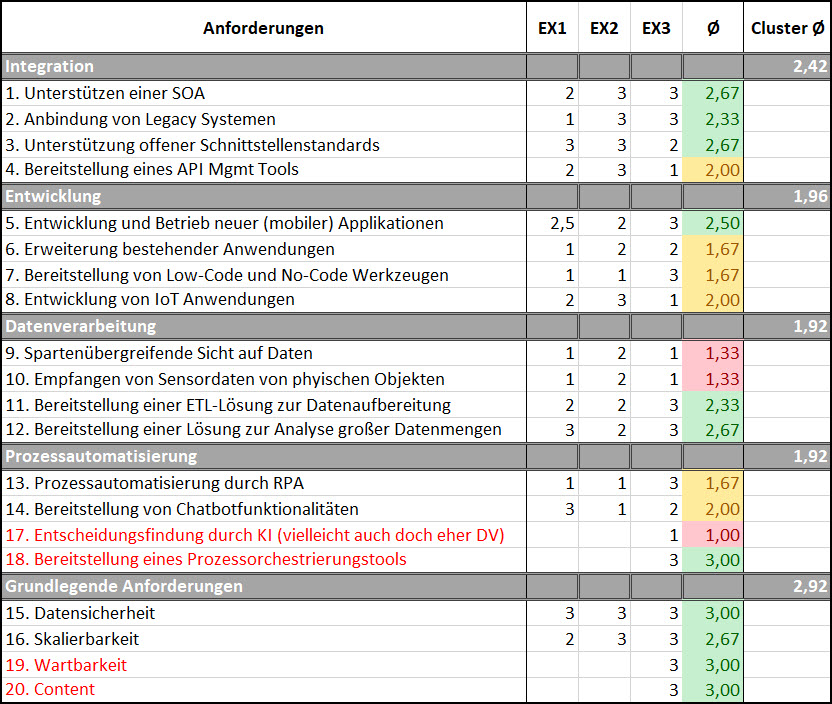
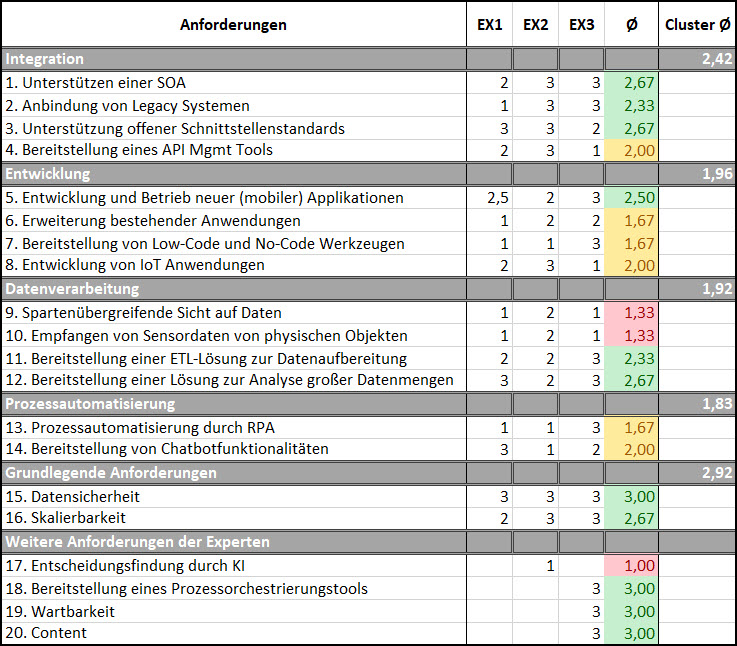
Update für Susanne zum Gegenlesen

diff --git a/content/handlungsempfehlung.tex b/content/handlungsempfehlung.tex
@@ -1,16 +1,20 @@
 \chapter{Handlungsempfehlung}
 
-Nach dem Abgleich der Task und Technologie Charakteristiken konnte festgestellt werden, dass alle Anforderungen der Kfz-Versicherer an eine technische Plattform von der SAP BTP erfüllt wurden. Dabei hat sich anhand der Priorisierung der Anforderungen durch die Experten gezeigt, dass es neben den grundlegenden Anforderungen Datenschutz, Skalierbarkeit, einfache Wartung und Content, bestimmte Kernaktivitäten im Bereich der Integration durchgeführt werden müssen, bevor die Anforderungen in den anderen Bereichen erfüllt werden können. So können Kfz-Versicherer im Rahmen einer SOA ihre bestehenden Backendsysteme kapseln und diese anschließend über die Cloud-Konnektoren an die BTP anbinden, um die dort vorgehaltenen Daten und Prozessabläufe für andere Anwendungen zugänglich zu machen. Dabei kann der API Management Service der BTP komplementär verwendet werden, um die notwendigen Schnittstellenaufrufe zu überwachen/zu verwalten. 
+Variante 1:
 
-Sind die bestehenden Altsysteme der Versicherer entsprechend integriert, können Kfz-Versicherer die offenen Schnittstellenstandards der BTP dazu verwenden, sich in Mobilitätsökosysteme sowie weitere Vertriebskanäle zu integrieren.
+Die Task-Technology-Fit Analyse hat gezeigt, dass die SAP Business Technology Platform mit 95\% eine hohe Passung zu den Anforderungen der Kfz-Versicherer aufweist und somit eine vielversprechende Plattform für die Branche darstellt. Um nun durch den Einsatz der SAP BTP Wettbewerbsvorteile erzielen zu können, sollten Kfz-Versicherer die einzelnen Services der SAP BTP Schrittweise implementieren. Dabei hat sich anhand der Priorisierung der Anforderungen durch die Experten gezeigt, dass bei Erfüllung der grundlegenden Anforderungen wie Datenschutz oder Skalierbarkeit digitale Plattformen in den nächsten 3-5 Jahren vor allem im Bereich der Integration eingesetzt werden. 
 
-Zudem können die Kfz-Versicherer mithilfe die SAP BTP Zugang zu neuen Technologien in den Bereichen Datenanalyse, Entwicklung und Prozessautomatisierung erhalten, die sie in ihren Altsystemen gar nicht abbilden können. So können sie im Bereich der Datenverarbeitung die unstrukturierten Daten unstrukturierten Daten zunächst aufbereiten und anschließend mit ML-Modellen auswerten, um eigene interne Verbesserungspotentiale zu identifizieren.
+(1)Hier sollten Kfz-Versicherer im Rahmen einer SOA ihre bestehenden Backendsysteme kapseln und diese an die BTP anbinden, um die dort vorgehaltenen Daten und Prozessabläufe für andere Anwendungen zugänglich zu machen. Sofern die Legacy-Systeme der Kfz-Versicherer hinreichend eingebunden sind, sollten die Schnittstellen der BTP zur Anbindung an Mobilitätsökosysteme, sowie andere Vertriebskanäle genutzt werden. Dadurch könnten sie ihren Kundenstamm erweitern und folglich ihre Marktposition weiterausbauen. Komplementär sollte zur Steuerung der Schnittstellenaufrufe der API Management Service der BTP verwendet werden.
 
-Mithilfe der SAP BTP können Kfz-Versicherer zudem ihre digitalen Kundenservice verbessern, indem sie beispielsweise eine mobile App für ihre Versicherungsnehmer bereitstellen, die entsprechend mit den Kooperationspartnern des Versicherers wie Werkstätten integriert ist. So könnten die Versicherungsnehmen im Schadensfall über die App des Versicherers einen Werkstatttermin vereinbaren. Zu den weiteren Diensten die Kfz-Versicherer durch die BTP anbieten können, gehören Telematik-Tarife, da die dafür notwendigen Sensordaten mit der BTP verarbeitet und in Geschäftsprozesse integriert werden können. Darüber hinaus können mit dem Conversational AI Service der SAP BTP Chatbots in die bestehenden Applikationen der Kfz-Versicherer und damit in die .
+(2) Darauf aufbauend sollten Kfz-Versicherer über die BTP eine App bereitstellen mit der Versicherungsnehmer alle ihre Kfz-Versicherungsaktivitäten wie das Vereinbaren eines Werkstatttermins, zentral steuern können, da eine solche Anwendung insbesondere von der jungen Generation heutzutage erwartet wird. (vgl. Eduard 0:9:03)  Dabei können Kfz-Versicherer die dafür notwendige App auch auf der BTP selbst mithilfe des Mobile Services entwickeln.
 
-Kundeninteraktion miteingebunden werden. Hier profitieren die Kunden der Kfz-Versicherer bei Fragen zu Schadensfällen oder Anträgen von kürzeren Wartezeiten und der Versicherer selbst von reduzierten Kosten bei der Bearbeitung von Kundenanfragen. Weiterhin können Kfz-Versicherer mit dem Intelligent RPA Service der SAP BTP die Kosten in der Sachbearbeitung reduzieren, indem repetitive Aufgaben wie das Erstellen von Berichten oder das Überprüfen von Kfz-Schäden automatisiert wird. Eine weitere Technologie mit der Kfz-Versicherer sich über die BTP vom Wettbewerb differenzieren können, sind die Low-Code, No-Code Tools des SAP Build Apps Services. Mit diesen können die Facharbeiter zur Entwicklung von Prozesserweiterungen befähigt werden und damit trotz des IT-Fachkräftemangels in der Kfz-Versicherungsbranche über mehr Entwicklungspower verfügen.
-Abschließend lässt sich festhalten, dass die Anforderungen der Kfz-Versicherer an eine digitale Plattform von der BTP erfüllt werden und diese damit für die Kfz-Versicherer einen Möglichkeit darstellt, sich gegenüber der Konkurrenz einen Wettbewerbsvorteil zu verschaffen.
+(3) Zur Erweiterung des eigenen Angebotsportfolios sollten Kfz-Versicherer darüber hinaus die IoT Services der SAP BTP nutzen. Um Sensordaten zum Fahrverhalten von Kunden bei der Prämienkalkulation zu berücksichtigen und damit weitere Finanzdienstleistungen wie Telematik Tarife anbieten zu können.
 
+(4) Um die Entwicklung und Erweiterung der oben aufgeführten Applikationen zu Realisieren sollten Kfz-Versicherer neben den klassischen Entwicklungstools (wie CAP von der BTP zur Entwicklung von Cloud-nativen Anwendungen) auch die Low-Code No-Code Werkzeuge von SAP Build Apps nutzen. Mit diesen können Fachexperten Applikationen anpassen, ohne tiefe Programmierkenntnisse mitbringen zu müssen. Damit könnten Kfz-Versicherer die Zusammenarbeit zwischen IT und Geschäftsabteilung in funktionsübergreifenden Teams fördern und gleichzeitig den eigenen Bedarf an Entwicklern reduzieren / IT-Mitarbeiter entlastet.
+
+(5) Nach dem die Anbindung der verschiedenen Altsysteme an die BTP abgeschlossen ist, sollten Kfz-Versicherer mit der SAC Analytics Cloud die historischen Daten der Kunden mit der SAP Analytics Cloud analysieren, um die Prämien- und Risikokalkulation zu optimieren. Dabei sollten für die dafür benötigten Daten zunächst mit dem Data Intelligence Service aus den verschiedenen Quellen aggregiert und mit dem Datasphere Service aufbereitet werden.
+
+(6) Weiterhin sollten Kfz-Versicherer nach der Durchführung der Schritte 1 und 2 die repetitive manuelle Prozesse wie das Erstellen von Berichten oder das Überprüfen von Kfz-Schäden mit dem BTP Service SAP Build Process Automation automatisieren, um die Bearbeitungszeiten zu reduzieren und mehr Ressourcen für die Kundenbetreuung zu haben.
 
 
 

diff --git a/content/evaluation.tex b/content/evaluation.tex
@@ -51,13 +51,13 @@ Die zuvor aus der Literatur herausgearbeiteten Anforderungen konnten von allen E
 
 17. Entscheidungsfindung durch KI. – Für Experte 2 stellte zudem eine weitere Anforderung das Unterstützen der Kfz-Versicherer bei der Entscheidungsfindung durch KI Modelle in Prozesse wie der Akquise oder dem Schadensprozess dar, um bestimmte Sachverhalte prüfen zu lassen.
 
-18. Bereitstellung einer Prozessorchestrierungslösung – Aus Sicht des Experten 3 ist es für Kfz-Versicherer zudem wichtig ein Prozessorchestrierungstool zu haben, um einen Prozess systemübergreifend end-to-end designen und gezielt Prozessschritte in den jeweiligen Lösungen über Schnittstellen ansteuern zu können.
+18. Bereitstellung einer Prozessorchestrierungslösung – Aus Sicht des Experten 3 ist es für Kfz-Versicherer zudem wichtig, dass die Plattform ein Prozessorchestrierungstool bereitstellt, mit dem Prozesse systemübergreifend end-to-end designen, monitoren und gezielt Prozessschritte in den jeweiligen Lösungen über Schnittstellen angesteuert werden können. 
 
 19. Wenig Wartungsaufwand – Für Experte 3 stellte eine weitere grundlegende Anforderung die einfache Wartbarkeit der Plattform dar, sodass beispielsweise neue Releases automatisch eingespielt und damit die neuesten Technologien direkt bereitgestellt werden.
 
-20. Contentpakete – Aus Sicht des Experten 3 sollte eine technische Plattform neben den bereitgestellten Tools in den einzelnen Clustern auch Contentpakete bereitstellen. Mit dem Begriff Content sind dabei Inhalte gemeint, die den Implementierungsaufwand in den einzelnen Bereichen reduzieren. Das können bspw. vordefinierte Schnittstellen, Adaptoren, vordefinierte Datenmodelle oder auch vordefinierte Frameworks sein. 
+20. Contentpakete – Aus Sicht des Experten 3 sollte eine technische Plattform neben den bereitgestellten Tools in den einzelnen Clustern auch Contentpakete bereitstellen. Mit dem Begriff Content sind dabei Inhalte gemeint, die den Implementierungsaufwand in den einzelnen Bereichen reduzieren. Das können bspw. vordefinierte Schnittstellen, Adaptoren oder auch vordefinierte Frameworks sein. 
 
-Neben der Überprüfung und Ergänzung der in der Literatur gefundenen Anforderungen, wurden diese von den Experten ebenfalls nach ihrer Wichtigkeit in den nächsten 3-5 Jahren priorisiert. Diese Priorisierung ist in Tabelle  … dargestellt.
+Neben der Überprüfung und Ergänzung der in der Literatur gefundenen Anforderungen, wurden die Anforderungen von den Experten ebenfalls nach ihrer Wichtigkeit in den nächsten 3-5 Jahren priorisiert. Diese Priorisierung ist in Tabelle  … dargestellt.
 
 \begin{figure}[h]
     \centering
@@ -67,7 +67,7 @@ Neben der Überprüfung und Ergänzung der in der Literatur gefundenen Anforderu
 \end{figure}
 \footnotetext{eigene Darstellung}
 
-Anhand der Tabelle ist zu erkennen, dass die Experten die einzelnen Anforderungen zwar teilweise sehr unterschiedlich bewerten, sich aber dennoch einige Tendenzen erkennen lassen. So sind neben den grundlegenden Anforderungen insbesondere die Anforderungen im Bereich der Integration besonders wichtig. Darauf gefolgt sind mit einem Durchschnittswert von ca. 1,9 die Anforderungen im Bereich der Entwicklung und im Bereich der Datenverarbeitung für in etwa gleichwichtig befunden worden. Die Anforderung im Cluster der intelligenten Technologien sind nach Einschätzung der Experten am wenigsten wichtig.
+Anhand der Tabelle ist zu erkennen, dass die Experten die einzelnen Anforderungen zwar teilweise sehr unterschiedlich bewerten, sich aber dennoch einige Tendenzen erkennen lassen. So sind neben den grundlegenden Anforderungen insbesondere die Anforderungen im Bereich der Integration besonders wichtig. Darauf gefolgt sind mit einem Durchschnittswert von ca. 1,9 die Anforderungen im Bereich der Entwicklung und im Bereich der Datenverarbeitung für in etwa gleichwichtig befunden worden. Die Anforderung im Cluster der intelligenten Technologien sind nach Einschätzung der Experten in den nächsten 3-5 Jahren am wenigsten wichtig.
 
 
 
@@ -111,9 +111,13 @@ Ein weiterer Service im Bereich der Intelligenten Technologien der BTP ist SAP C
 \section{Synthese der Task und Technology Charakteristiken}
 
 Ziel des folgenden Abschnitts ist es, das zuvor erarbeitete Anforderungsmodell mit den Funktionen und Services der SAP BTP zu vergleichen. Hierfür werden die Anforderungen tabellarisch in Abbildung … dargestellt und mit einer kurzen Begründung Stellung dazu bezogen, inwiefern die Anforderung von der SAP BTP erfüllt werden.
+
+
+...Tabelle... Excel TTFAbgleichv1
+
 \newpage
 
-Bei der Betrachtung der Abbildung … dargestellten Synthese der Task und Technologie Charakteristika ist zu erkennen, dass die BTP hervorragend für die Anforderungen der Kfz-Versicherer geeignet ist. Lediglich die Anforderungen im Bereich der intelligenten Technologien werden nur bedingt erfüllt. Somit sollten Kfz-Versicherer durch den Einsatz der SAP BTP klare Performanceverbesserungen in ihrer Organisation erzielen können.
+BBei der Betrachtung der Abbildung … dargestellten Synthese der Task und Technologie Charakteristika ist zu erkennen, dass die Anforderungen der Kfz-Versicherer an eine digitale Plattform von der BTP zu 95\% erfüllt werden und die BTP somit einen sehr hohen Fit hat. Folglich können Kfz-Versicherer durch den Einsatz der SAP BTP klare Performanceverbesserungen in ihrer Organisation erzielen und sich damit vom Wettbewerb im Markt differenzieren.
 
 
 \newpage

diff --git a/content/einleitung.tex b/content/einleitung.tex
@@ -13,7 +13,20 @@ Folglich müssen Kfz-Versicherer ihre internen Prozesse zur Kostenreduktion opti
 
 Die SAP Business Technology Plattform ist eine solche digitale Plattform mit der Unternehmen ihre bestehende IT-Landschaft transformieren und an neue Geschäftsanforderungen anpassen können.
 
-Ziel dieser Arbeit ist es daher die Anforderungen der Kfz-Versicherer an eine digitale Plattform zu identifizieren, um anschließend beurteilen zu können, inwiefern die Anforderungen der Kfz-Versicherer an eine digitale Plattform von der SAP Business Technology Plattform erfüllt werden. Die aus der Analyse resultierende Handlungsempfehlung soll Kfz-Versicherern eine praxisorientierte Vorgehensweise zur Implementierung der SAP Business Technology Plattform aufzeigen.
+Zielsetzungsmöglichkeiten
+
+1. Ziel dieser Arbeit ist es daher die Anforderungen der Kfz-Versicherer an eine digitale Plattform zu identifizieren, um anschließend beurteilen zu können, inwiefern die Anforderungen der Kfz-Versicherer an eine digitale Plattform von der SAP Business Technology Plattform erfüllt werden. Die aus der Analyse resultierende Handlungsempfehlung soll Kfz-Versicherern eine praxisorientierte Vorgehensweise zur Implementierung der SAP Business Technology Plattform aufzeigen.
+
+2. Ziel dieser Arbeit ist es daher eine konkrete Handlungsempfehlung zu erarbeiten, wie die SAP BTP genutzt werden kann, um für Kfz-Versicherer einen Wettbewerbsfaktor darzustellen. (Definition Wettbewerbsfaktor: Wettbewerbsfaktoren sind Maßnahmen, Aktivitäten aber auch Ressourcen, die einem Unternehmen im Wettbewerb helfen, Alleinstellung zu erzielen und damit den Marktanteil zu stabilisieren oder auszubauen.(EcommerceInstitut)). Hierfür werden zunächst die Anforderungen der Kfz-Versicherer an eine digitale Plattform identifiziert, um anschließend beurteilen zu können, inwiefern die Anforderungen der Kfz-Versicherer an eine digitale Plattform von der SAP Business Technology Plattform erfüllt werden.
+
+3. Ziel dieser Arbeit ist es daher die Anforderungen der Kfz-Versicherer an eine digitale Plattform zu identifizieren, um anschließend beurteilen zu können, inwiefern die Anforderungen der Kfz-Versicherer an eine digitale Plattform von der SAP Business Technology Plattform erfüllt werden. Die aus der Analyse resultierende Handlungsempfehlung soll Kfz-Versicherern eine praxisorientierte Vorgehensweise zur Implementierung der SAP Business Technology Plattform aufzeigen.
+
+4. Ziel dieser Arbeit ist es daher zu untersuchen, wie die SAP Business Technology Plattform dazu beitragen kann, dass ein Kfz-Versicherer im Wettbewerb erfolgreich ist und sich von anderen Anbietern abheben kann.
+
+5. Ziel dieser Arbeit ist es daher zu untersuchen, wie Kfz-Versicherer die SAP Business Technology Plattform nutzen können, um Wettbewerbsvorteile zu erzielen?
+
+6. Ziel dieser Arbeit ist daher eine Handlungsempfehlung zu erarbeiten, wie Kfz-Versicherer die SAP BTP verwenden können, um Alleinstellungsmerkmale zu erzielen und ihren Marktanteil auszubauen.
+
 
 Dabei wird der deutsche Kfz-Versicherungsmarkt betrachtet, da eine Analyse inklusiver internationaler Märkte aufgrund der unterschiedlichen regulatorischen Anforderungen sowie der unterschiedlichen Preisgestaltung/ Digitalisierungsgrad / Tarifierung(smerkmale) nicht aussagekräftig wäre. Des Weiteren konzentriert sich die Arbeit im Wesentlichen auf die technologischen Merkmale einer digitalen Plattform. Darüber hinaus wird im Rahmen dieser Untersuchung digitaler Plattformen als Wettbewerbsfaktor betrachtet, nicht aber in Bezug zu anderen Wettbewerbskräften im Versicherungsmarkt gesetzt.
 
